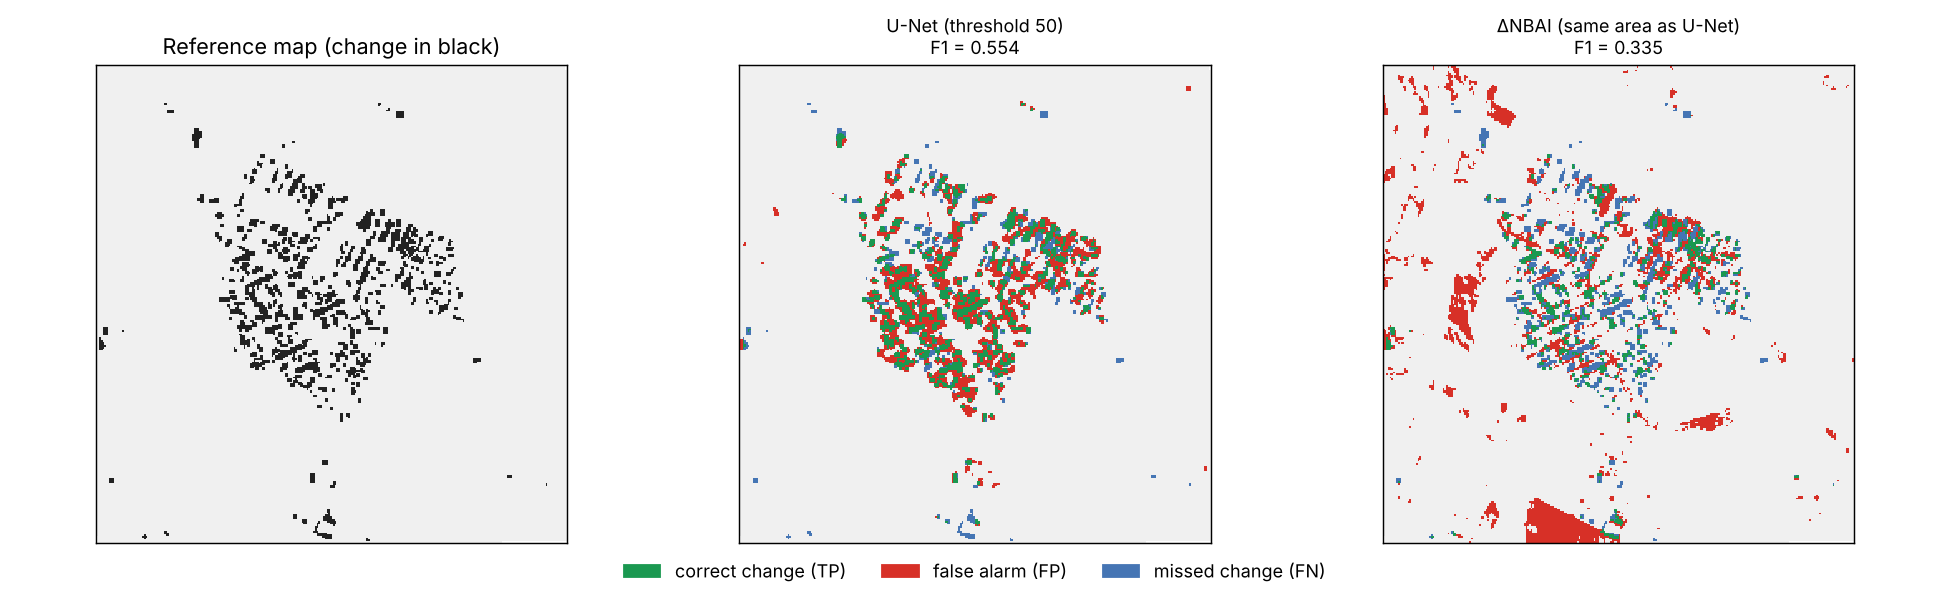
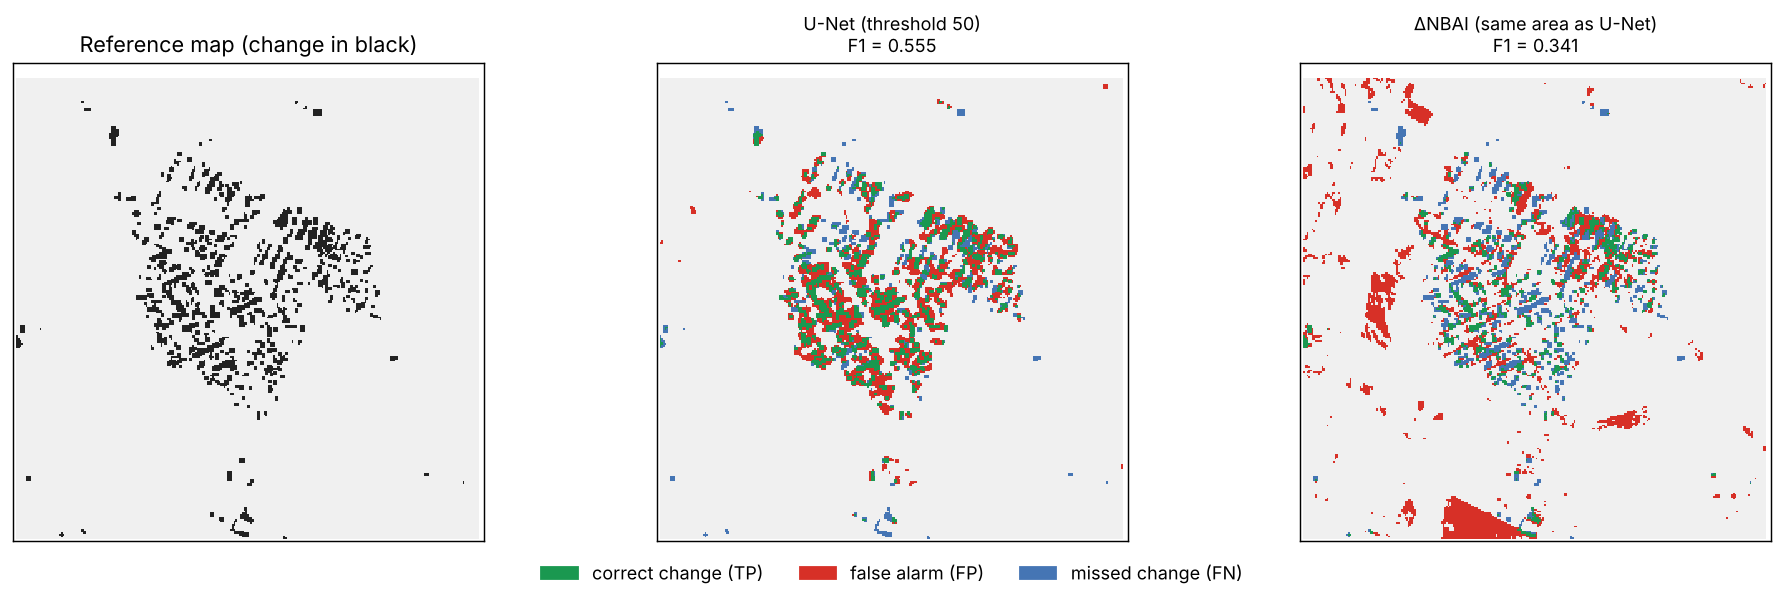
Validation: resultados esperados iguais ao código publicado; corrige amostras de pixels da 10.4
- README, notebook de validação, benchmark_output.txt e benchmark_maps.png com os
  pixels dentro da extensão do mapa de referência (77.562 px; F1 U-Net 0,555)
- pós-classificação NBAI recalculada nos mesmos pixels (F1 0,281)
- validation_export: máscara da U-Net recebe projeção de 10 m antes do reduceResolution

Claude-Session: https://claude.ai/code/session_015VZvzm8DgRfV8wvhWsDgnQ

diff --git a/modulos/validation_export.py b/modulos/validation_export.py
@@ -229,9 +229,13 @@ def sample_extent_pixels(results, stats_change, roi, reference_geometry=None, ma
     if 'perimeter' in ext:
         img = img.addBands(ee.Image.constant(1).clip(ext['perimeter']).unmask(0).rename('in_perimeter'))
     if mask_ee is not None:
+        # the U-Net mask is painted from polygons (cell 6.5) and has no default projection:
+        # declare its 10 m grid first, then average it to the 30 m thermal grid
+        crs = results['lst_30m_t1'].projection().crs()
         frac = (ee.Image(mask_ee).unmask(0).clip(roi).toFloat()
+                .setDefaultProjection(crs=crs, scale=10)
                 .reduceResolution(ee.Reducer.mean(), maxPixels=1024)
-                .reproject(ee.Projection(results['lst_30m_t1'].projection().crs()).atScale(scale)))
+                .reproject(ee.Projection(crs).atScale(scale)))
         img = img.addBands(frac.unmask(0).rename('frac_new_building'))
     out = {}
     for key, geom in ext.items():

diff --git a/modulos/__init__.py b/modulos/__init__.py
@@ -1,3 +1,3 @@
 # Thermal Analysis + Change Detection project modules
 # For use in Google Colab
-__version__ = "0.03"
+__version__ = "0.11"

diff --git a/Validation/README.md b/Validation/README.md
@@ -1,6 +1,6 @@
 # Validation of the change detection model
 
-This folder lets anyone reproduce the accuracy of the change detection component (paper, Table 8) and the
+This folder lets anyone reproduce the accuracy of the change detection component (paper, Table 7) and the
 comparison with spectral index differencing, without running the whole pipeline.
 
 ## How to run
@@ -19,22 +19,23 @@ the U-Net and needs the pre-trained weights (`mmcr_train100.pt`, Hafner, Ban and
 | `ground_truth.tif` | Reference map of new buildings between T1 and T2, delineated by the authors; band 1: 255 = new building, 0 = no change; ≈1.12 m, EPSG:32724 |
 | `mask_gain_NBAI_postclassification.tif` | Built-up gain by post-classification (NBAI > −0.8 in T1 and T2), 255 = gain |
 
-The reference map is resampled (nearest neighbour) to the 10 m grid of the prediction: 81,792 pixels, 4,096 of change (5.0 %).
+The reference map is resampled (nearest neighbour) to the 10 m grid of the prediction. Only the pixels inside the extent of the
+reference map are evaluated: 77,562 pixels, 4,096 of change (5.3 %).
 
 ## Expected results
 
 | Method | F1 [95 % CI] | IoU | Precision | Recall | κ |
 |---|---|---|---|---|---|
-| U-Net, threshold 50 (model default) | 0.554 [0.514, 0.582] | 0.383 | 0.455 | 0.708 | 0.525 |
-| U-Net, threshold 45 (best F1 on this area) | 0.554 [0.515, 0.580] | 0.383 | 0.440 | 0.747 | 0.524 |
-| ΔNBAI, same detected area as the U-Net | 0.335 [0.249, 0.402] | 0.201 | 0.275 | 0.428 | 0.292 |
-| NBAI post-classification (> −0.8) | 0.277 | 0.161 | 0.214 | 0.394 | 0.227 |
-| ΔNBAI, Otsu threshold | 0.253 [0.179, 0.321] | 0.145 | 0.157 | 0.652 | 0.188 |
-| ΔNDVI, Otsu threshold | 0.122 [0.079, 0.171] | 0.065 | 0.065 | 0.911 | 0.032 |
-| ΔNDBI, Otsu threshold | 0.078 [0.050, 0.110] | 0.041 | 0.042 | 0.646 | −0.018 |
+| U-Net, threshold 50 (model default) | 0.555 [0.513, 0.582] | 0.384 | 0.456 | 0.708 | 0.524 |
+| U-Net, threshold 45 (best F1 on this area) | 0.555 [0.515, 0.580] | 0.384 | 0.441 | 0.747 | 0.523 |
+| ΔNBAI, same detected area as the U-Net | 0.341 [0.250, 0.406] | 0.206 | 0.281 | 0.436 | 0.296 |
+| NBAI post-classification (> −0.8) | 0.281 | 0.164 | 0.219 | 0.394 | 0.229 |
+| ΔNBAI, Otsu threshold | 0.264 [0.186, 0.330] | 0.152 | 0.166 | 0.652 | 0.197 |
+| ΔNDVI, Otsu threshold | 0.129 [0.081, 0.177] | 0.069 | 0.069 | 0.911 | 0.034 |
+| ΔNDBI, Otsu threshold | 0.082 [0.052, 0.115] | 0.043 | 0.044 | 0.646 | −0.018 |
 
 Metrics refer to the change class (Hafner et al., 2023; Corley et al., 2024). The 95 % intervals come from a spatial
-block bootstrap (blocks of 32 × 32 pixels = 320 m). The full output is in `results/benchmark_output.txt` and the
+block bootstrap (blocks of 32 × 32 pixels = 320 m, 1,000 resamples, seed 42). The full output is in `results/benchmark_output.txt` and the
 maps of correct and wrong detections in `results/benchmark_maps.png`.
 
 Note: the threshold 45 used by default in the pipeline (cell 6.4) was selected on this same area. The model default

diff --git a/CHANGELOG.md b/CHANGELOG.md
@@ -1,5 +1,10 @@
 # Changelog
 
+## v0.11 — 2026-10-25 (not yet released)
+
+- **Validation folder aligned with the code**: expected results, `results/benchmark_output.txt` and `results/benchmark_maps.png` now come from `cd_benchmark` as run in Colab (cell 6.6 / validation notebook): only the 10 m pixels inside the extent of the reference map are evaluated (77,562 pixels, 4,096 of change, 5.3 %). U-Net F1 0.555 [0.513, 0.582]; best index alternative ΔNBAI (same area) 0.341 [0.250, 0.406]; NBAI post-classification 0.281 on the same pixels. The previous values (81,792 pixels, F1 0.554) counted pixels outside the delineated area as no change.
+- Fix (cell 10.4): pixel samples failed because the U-Net mask has no default projection; it is now declared on its 10 m grid before being averaged to 30 m.
+
 ## v0.03 — 2026-10-24
 
 Outputs for later validation of the analysis area and of the urban perimeter.
